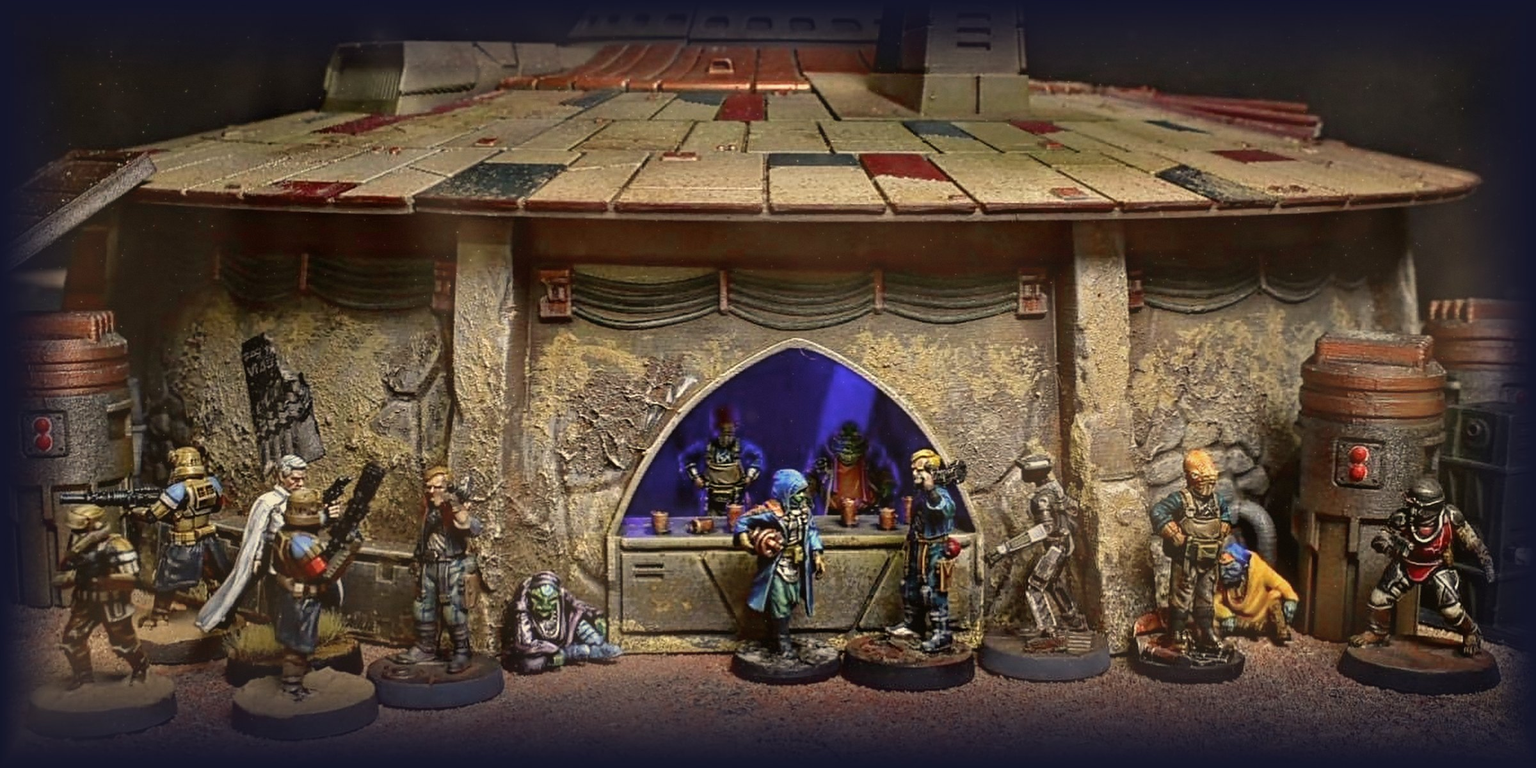
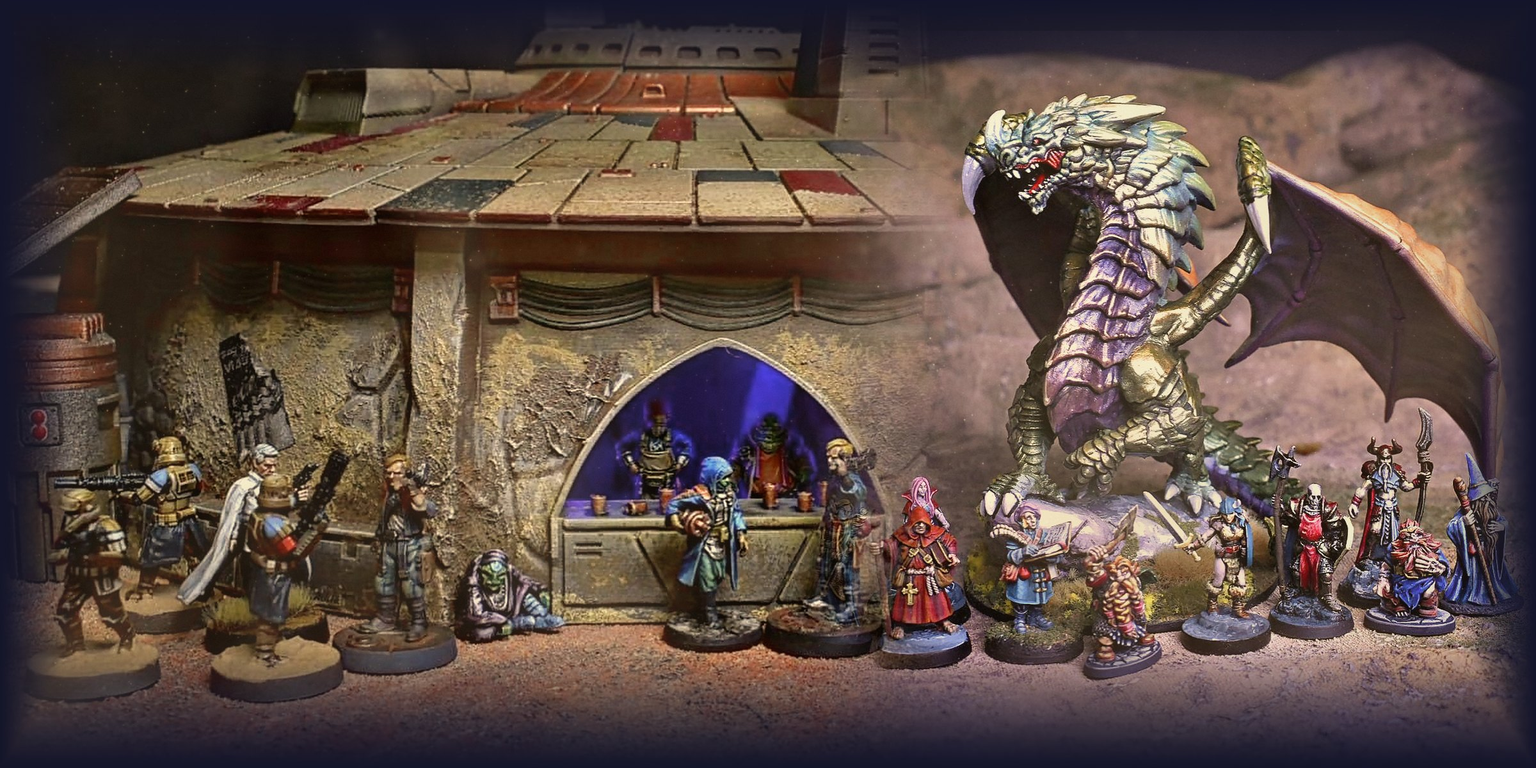
Hero: cantina crew blended with dragon hoard
Claude-Session: https://claude.ai/code/session_01VGTpXUwRjd5zMGnTmf5iUC

diff --git a/index.html b/index.html
@@ -32,7 +32,7 @@
 </div>
 
 <header class="hero" id="top">
-  <img src="img/hero-cantina.jpg" srcset="img/hero-cantina.jpg 2400w, img/hero-cantina-3840.jpg 3840w" sizes="100vw" alt="Cantina diorama: a domed adobe cantina with a lit bar, and a painted crew of smugglers and troopers out front" width="2400" height="1200">
+  <img src="img/hero-cantina.jpg" srcset="img/hero-cantina.jpg 2400w, img/hero-cantina-3840.jpg 3840w" sizes="100vw" alt="A desert cantina and its crew blending into a dragon rearing over an adventuring party, all painted miniatures" width="2400" height="1200">
   <div class="wrap hero-cap">
     <h1>Whole worlds, <em>built by hand</em> at miniature scale.</h1>
     <div>
